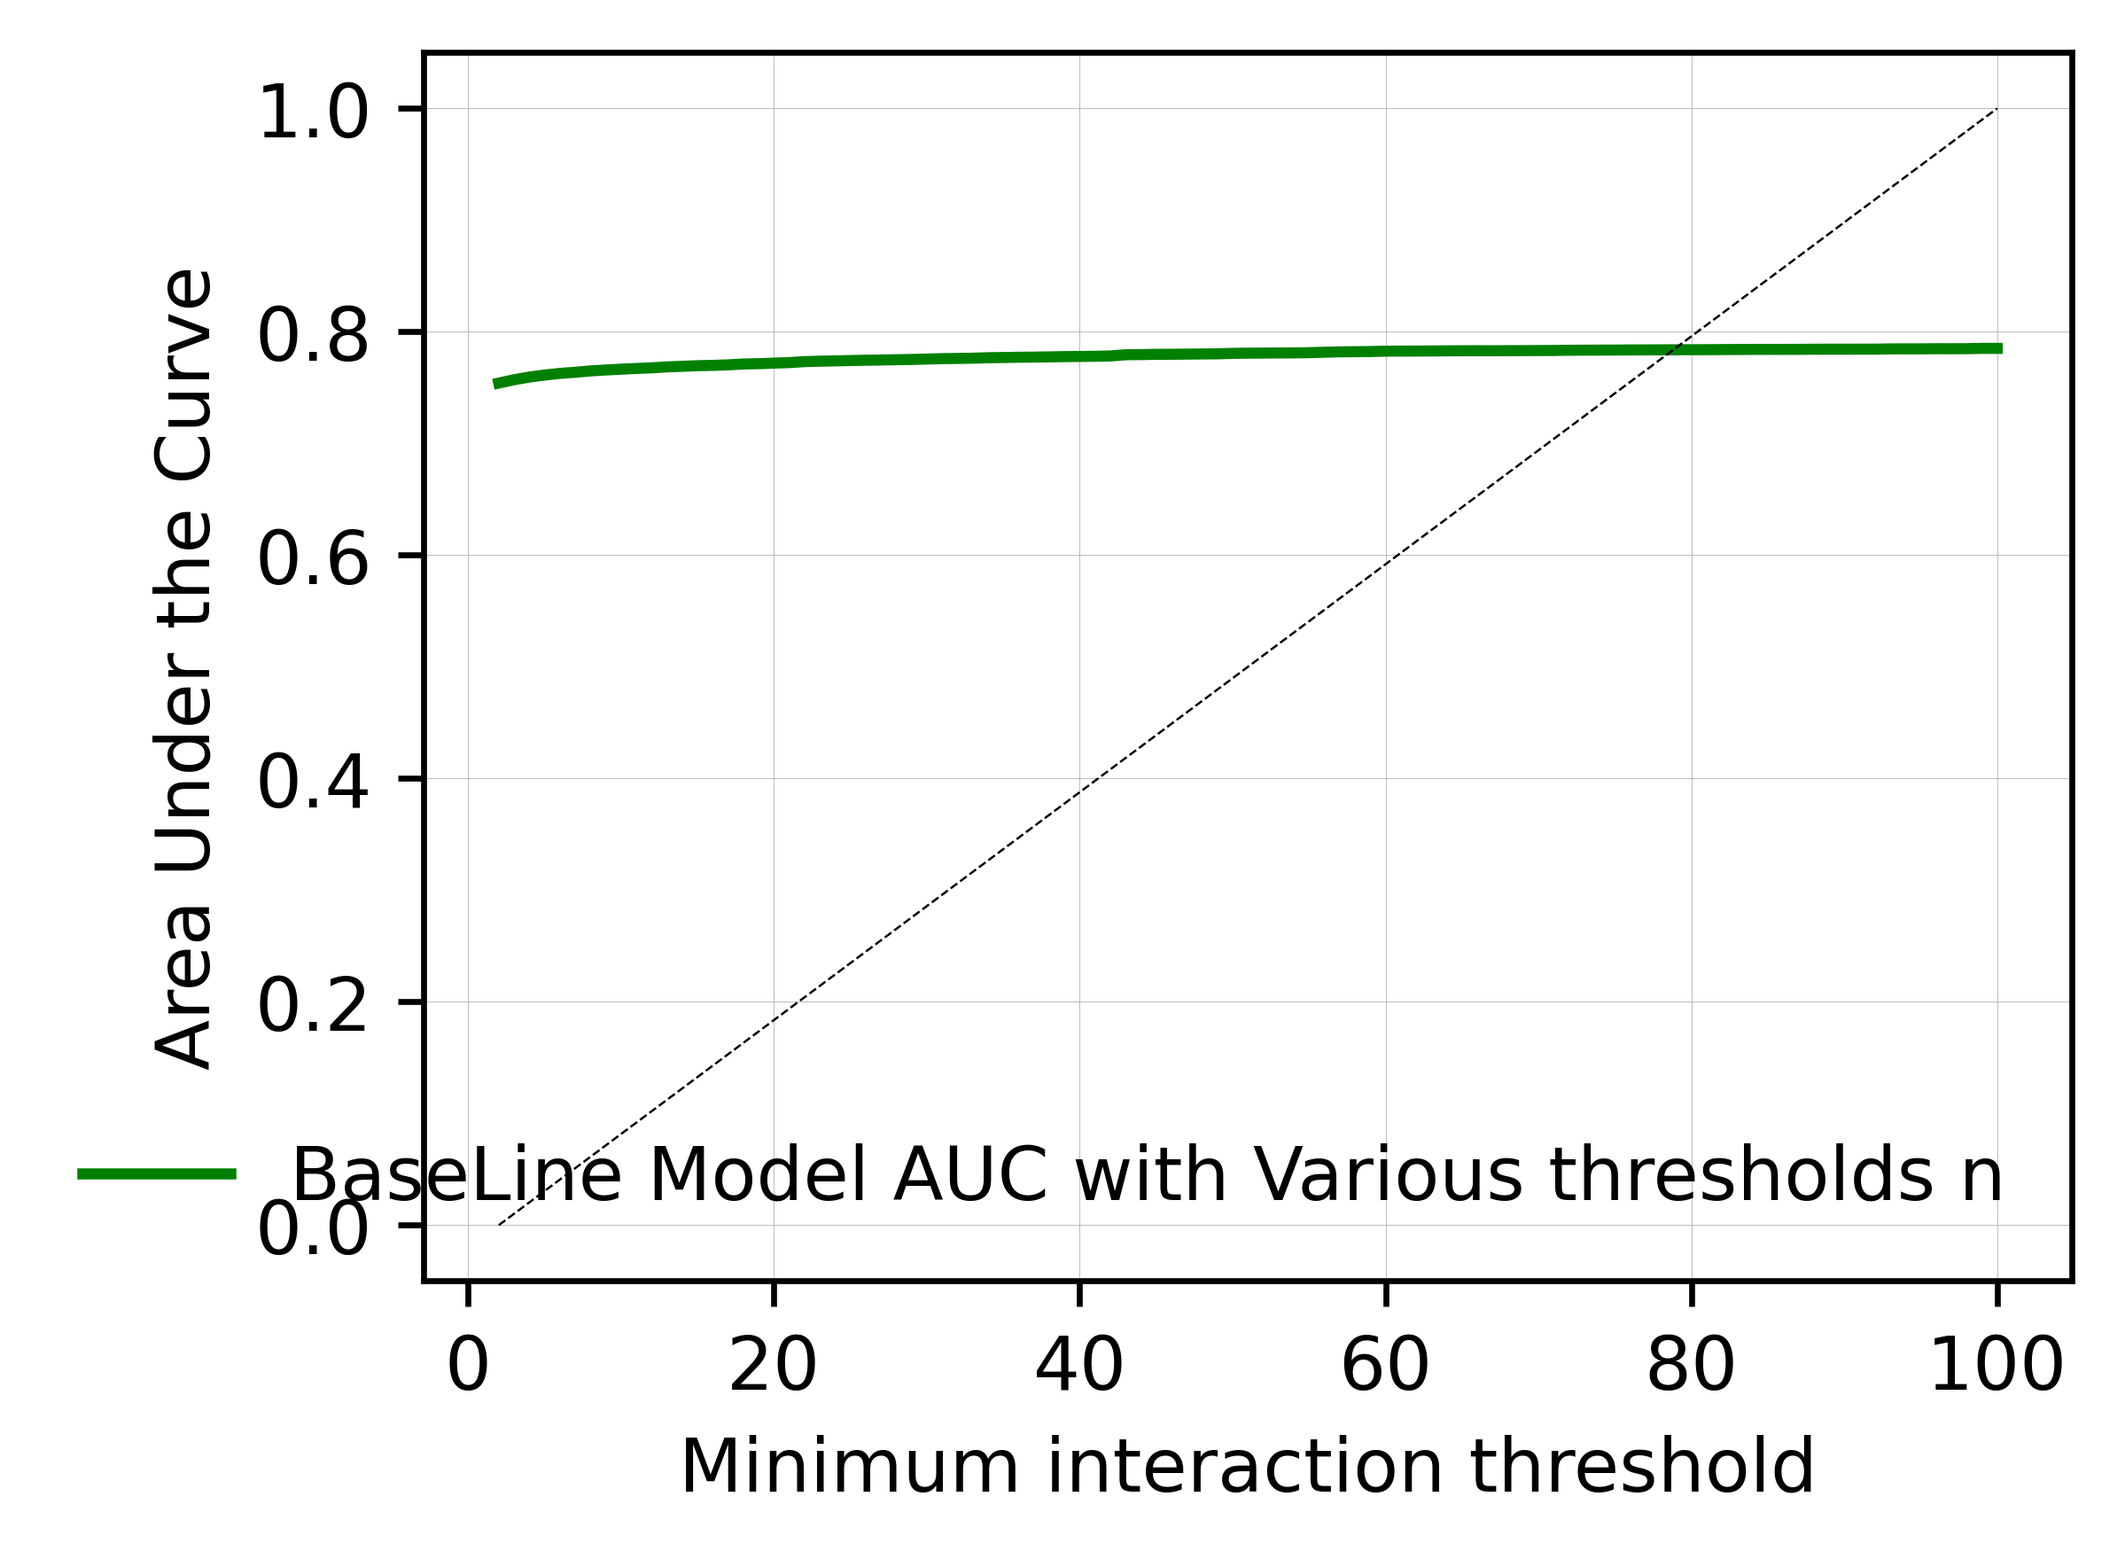
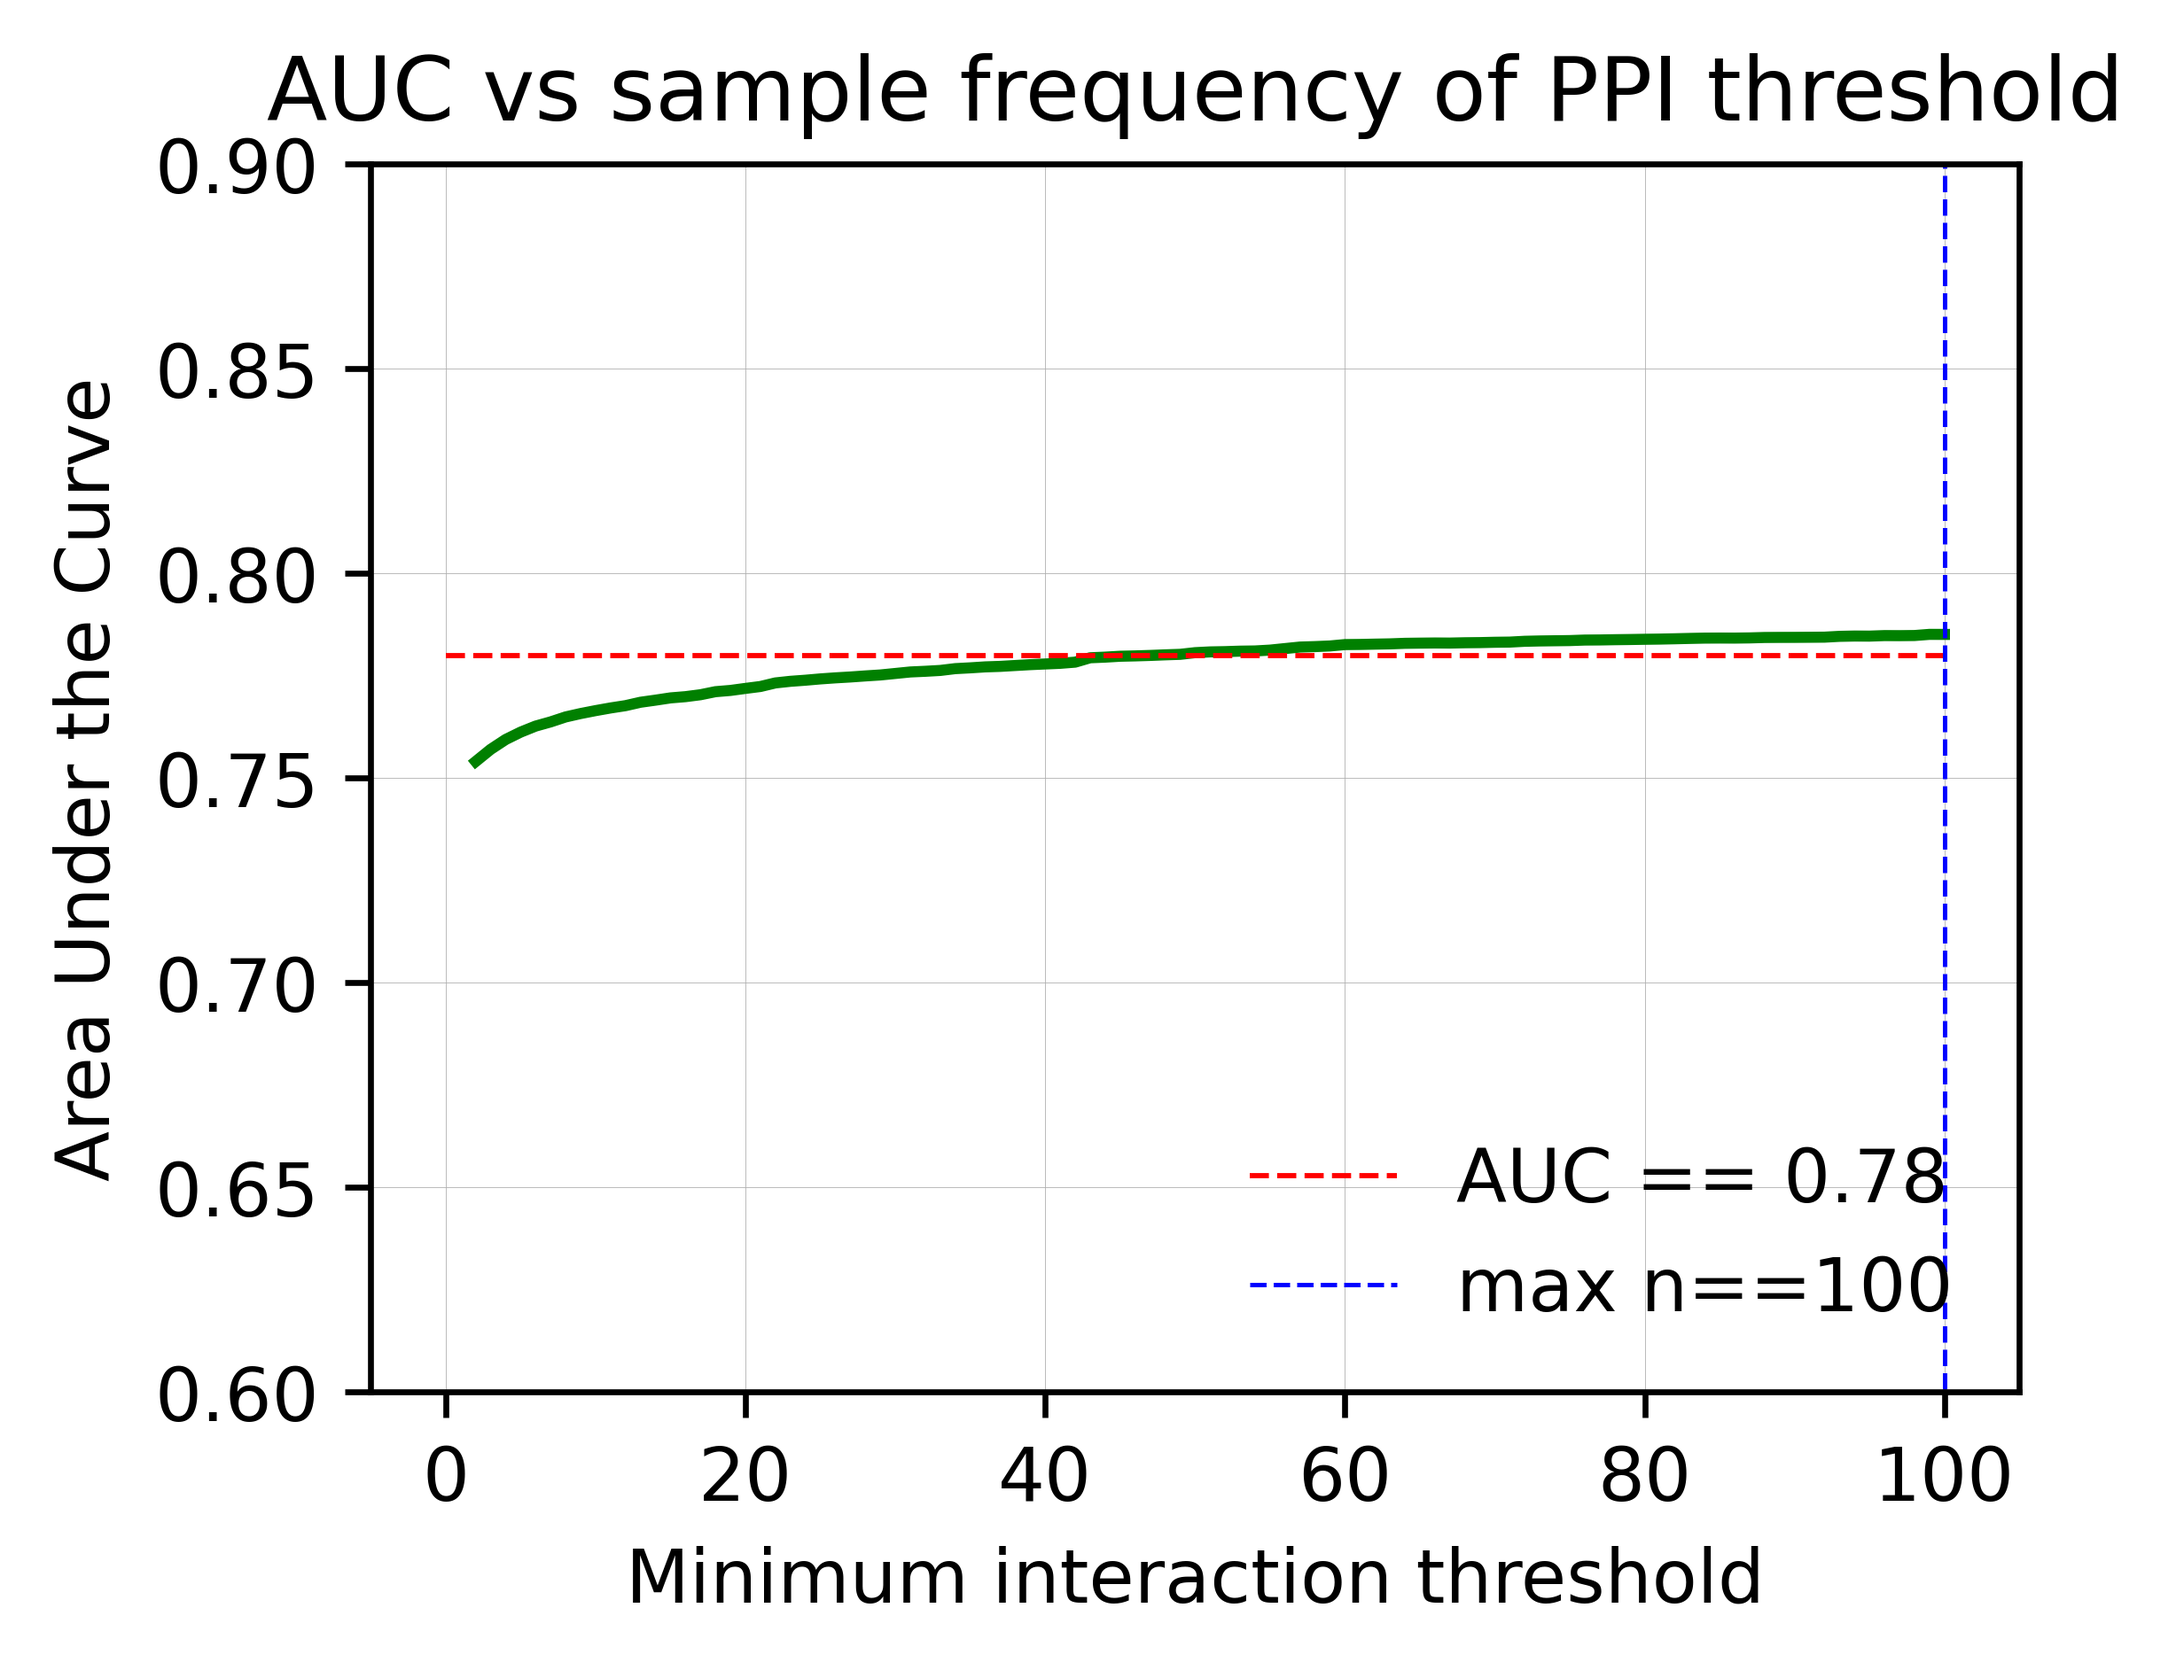
changes after meeting

Changed region(s): [[0.0309, 0.0307, 0.9875, 0.9824]]

diff --git a/src/findingThreshold.py b/src/findingThreshold.py
@@ -5,74 +5,79 @@ from sklearn.metrics import auc
 import matplotlib.pyplot as plt
 import utils
 from sklearn.metrics import auc
+from classes import ppiDataset
 
 
 PATH = "../data"
+RANDOMSTATE = 42
 
-# Load Dataset
+# proteinsData = pd.read_csv(PATH+'/datasetsTese/proteomicsDataTrans.csv', index_col='modelID')
 
-proteinsData = pd.read_csv(
-    PATH + '/datasetsTese/proteomicsDataTrans.csv', index_col='modelID')
+# pairwiseCorrData = pd.read_csv(PATH+'/datasetsTese/BaseModelPairwise.csv', index_col='PPI')
+
+# What Professor Pedro did not ask For :( 
+
+# def getAUCvsThresholdPlot(pairwiseCorrData:pd.DataFrame) -> None:
+
+#     # find the best count threshold n
+#     best = True
+#     previousAUC = 0
+#     threshold = 2
+#     aucList=[]
+#     thresholdList =[]
+#     while threshold < 101:
+        
+#         queriedPairCorrData = pairwiseCorrData.query('counts > @threshold')
+#         corrCumSum = np.cumsum(queriedPairCorrData['Corum']) / np.sum(queriedPairCorrData['Corum'])
+#         indexes = np.array(queriedPairCorrData.reset_index().index) / queriedPairCorrData.shape[0]
+#         currentAUC = auc(indexes, corrCumSum)
+#         #Update Lists for Curve plot
+#         aucList.append(currentAUC)
+#         thresholdList.append(threshold)
+        
+        
+#         if best and currentAUC < previousAUC:
+#             best = False
+#             print('The limit threshold of interactions were we start to lose information after increasing it is: ' + str(threshold-1) + '\n with an auc of ' + str(previousAUC))
+#         # print(str(currentAUC) + '>=' + str(previousAUC) + '\n' + str(best))
+#         threshold += 1
+#         previousAUC = currentAUC
 
 
+#     # make chart with auc per n threshold
 
-# Get Pairwise Correlation with n
-pairwiseCorrData = utils.getPairwiseCorrelation(
-    fileName='BaseModelPairwise', data=proteinsData, columnName='globalCorrelation')
+#     _, ax = plt.subplots(1, 1, figsize=(4, 3), dpi=600)
+#     ax.plot(
+#         thresholdList,
+#         aucList,
+#         c='green',
+#     )
+#     ax.plot([0,100],[0.78,0.78], "r--", label='AUC == 0.78',lw=0.7)
+#     ax.plot([threshold-1,threshold-1],[0,1], "b--", label='max n==' + str(threshold-1),lw=0.6)
 
-# Load external Datasets
-corumPPI = pd.read_json(PATH + '/externalDatasets/corumPPI.json')
+#     ax.legend(loc="lower right", frameon=False)
+#     ax.set_ybound(lower=0.6, upper=0.9)
+#     ax.set_ylabel("Area Under the Curve")
+#     ax.set_xlabel("Minimum interaction threshold")
+#     ax.set_title('AUC vs sample frequency of PPI threshold')
+#     ax.grid(True, axis="both", ls="-", lw=0.1, alpha=1.0, zorder=0)
 
-
-# Get get true or false on pairwise correlation
-listOfSets = [set(subset.split(';')) for subset in corumPPI['subunits(Gene name)']]
-pairwiseCorrData = utils.addGroundTruth(
-    listOfSets, pairwiseCorrData, 'Corum', filename='BaseModelPairwise')
-
-
-
-# find the best count threshold n
-best = True
-previousAUC = 0
-threshold = 2
-aucList=[]
-thresholdList =[]
-while threshold < 101:
+#     plt.savefig("thresholdVSAUC.png",
+#                 bbox_inches="tight")
     
-    queriedPairCorrData = pairwiseCorrData.query('counts > @threshold')
-    corrCumSum = np.cumsum(queriedPairCorrData['Corum']) / np.sum(queriedPairCorrData['Corum'])
-    indexes = np.array(queriedPairCorrData.reset_index().index) / queriedPairCorrData.shape[0]
-    currentAUC = auc(indexes, corrCumSum)
-    #Update Lists for Curve plot
-    aucList.append(currentAUC)
-    thresholdList.append(threshold)
+
+# # getAUCvsThresholdPlot(pairwiseCorrData)
+
+#     # What Professor Pedro Asked For :)
+# def randomSubSamplingAUC(proteinsData: pd.DataFrame):
+#     proteinsData :pd.DataFrame = proteinsData.copy()
+
+#     for sampleNum in [5]:
+#         proteinsData = proteinsData.sample(n = sampleNum, axis=0, random_state=RANDOMSTATE)
+#     print(proteinsData)
+#     proteinsData = utils.getPairwiseCorrelation(proteinsData,None,'correlation',False)
+#     print(proteinsData)
     
-    
-    if currentAUC < previousAUC:
-        best = False
-        print('The limit threshold of interactions were we start to lose information after increasing it is: ' + str(threshold-1) + '\n with an auc of ' + str(previousAUC))
-    # print(str(currentAUC) + '>=' + str(previousAUC) + '\n' + str(best))
-    threshold += 1
-    previousAUC = currentAUC
+# randomSubSamplingAUC(proteinsData)
 
-
-# make chart with auc per n threshold
-
-_, ax = plt.subplots(1, 1, figsize=(4, 3), dpi=600)
-ax.plot(
-    thresholdList,
-    aucList,
-    label="BaseLine Model AUC with Various thresholds n",
-    c='green',
-)
-
-ax.plot([2, 100], [0, 1], "k--", lw=0.3)
-ax.legend(loc="lower right", frameon=False)
-
-ax.set_ylabel("Area Under the Curve")
-ax.set_xlabel("Minimum interaction threshold")
-ax.grid(True, axis="both", ls="-", lw=0.1, alpha=1.0, zorder=0)
-
-plt.savefig("thresholdVSAUC.png",
-            bbox_inches="tight")
-
+biogrid = ppiDataset(PATH + '/externalDatasets/biogridPPIReduced.csv.gz',['proteinA', 'proteinB'])
